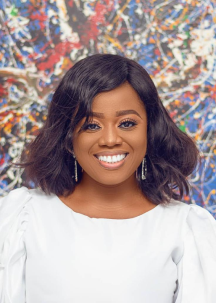
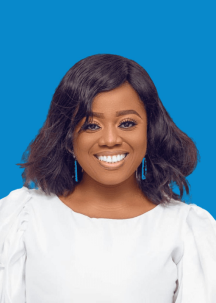
updated the colors

diff --git a/src/pages/website/about.js b/src/pages/website/about.js
@@ -6,6 +6,7 @@ import creative from "../../assets/website/icons/about/corevalues/authentic.png"
 import impactdriven from "../../assets/website/icons/about/corevalues/creative.png";
 import learning from "../../assets/website/icons/about/corevalues/impactdriven.png";
 import authentic from "../../assets/website/icons/about/corevalues/learning.png";
+import titi from "../../assets/website/images/about/titi.png";
 import advisory from "../../assets/website/images/about/advisory.png";
 import jolevi from "../../assets/website/images/about/jolevi.png";
 import eightgear from "../../assets/website/images/about/eightgear.png";
@@ -164,7 +165,7 @@ const Team = () => {
         <div className="row justify-content-center text-center">
           <div className="col-lg-4 col-md-4 col-sm-10 d-flex align-items-stretch">
             <div className="card w-75 mx-auto teamCard mt-4">
-              <img src={advisory} className="card-img-top" alt="Teamimage" />
+              <img src={titi} className="card-img-top" alt="Teamimage" />
               <div className="card-body teamcardbody">
                 <div className="text-center">
                   <figcaption className="card-text m-0 p-0">
